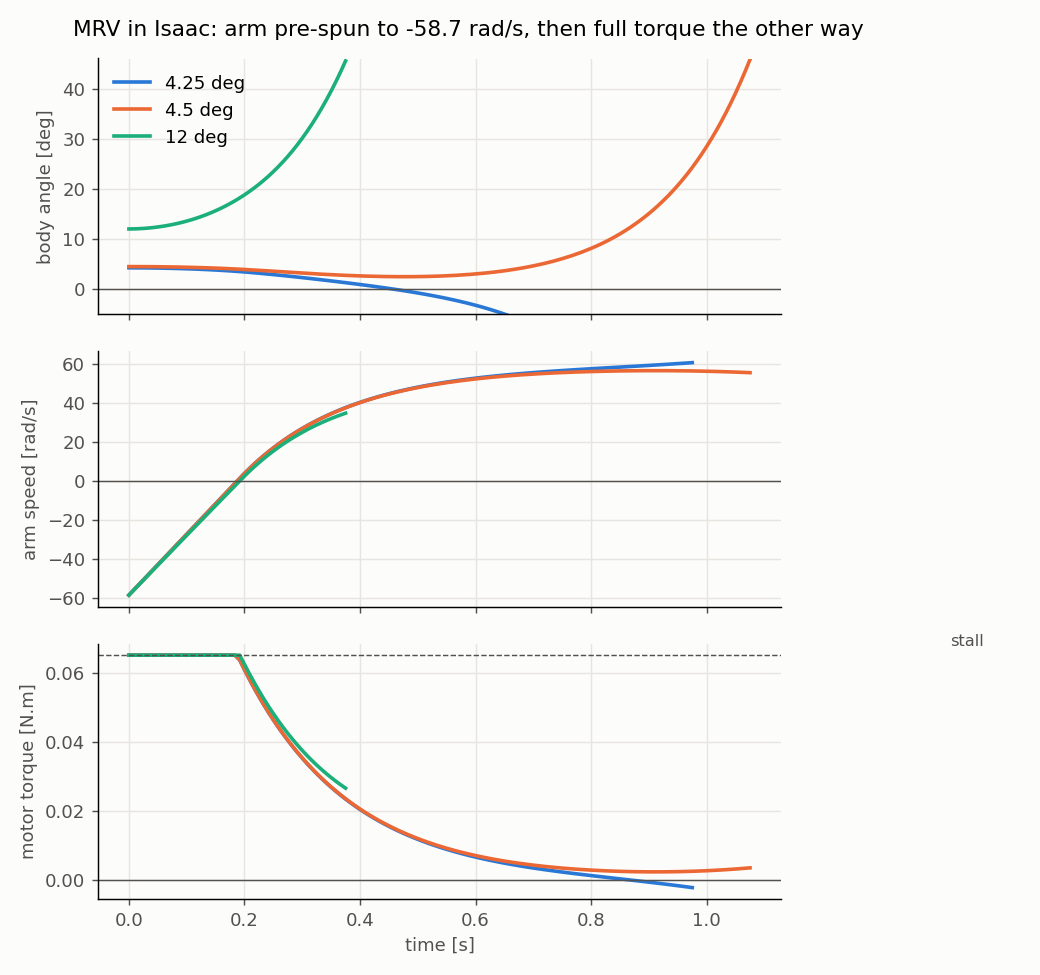
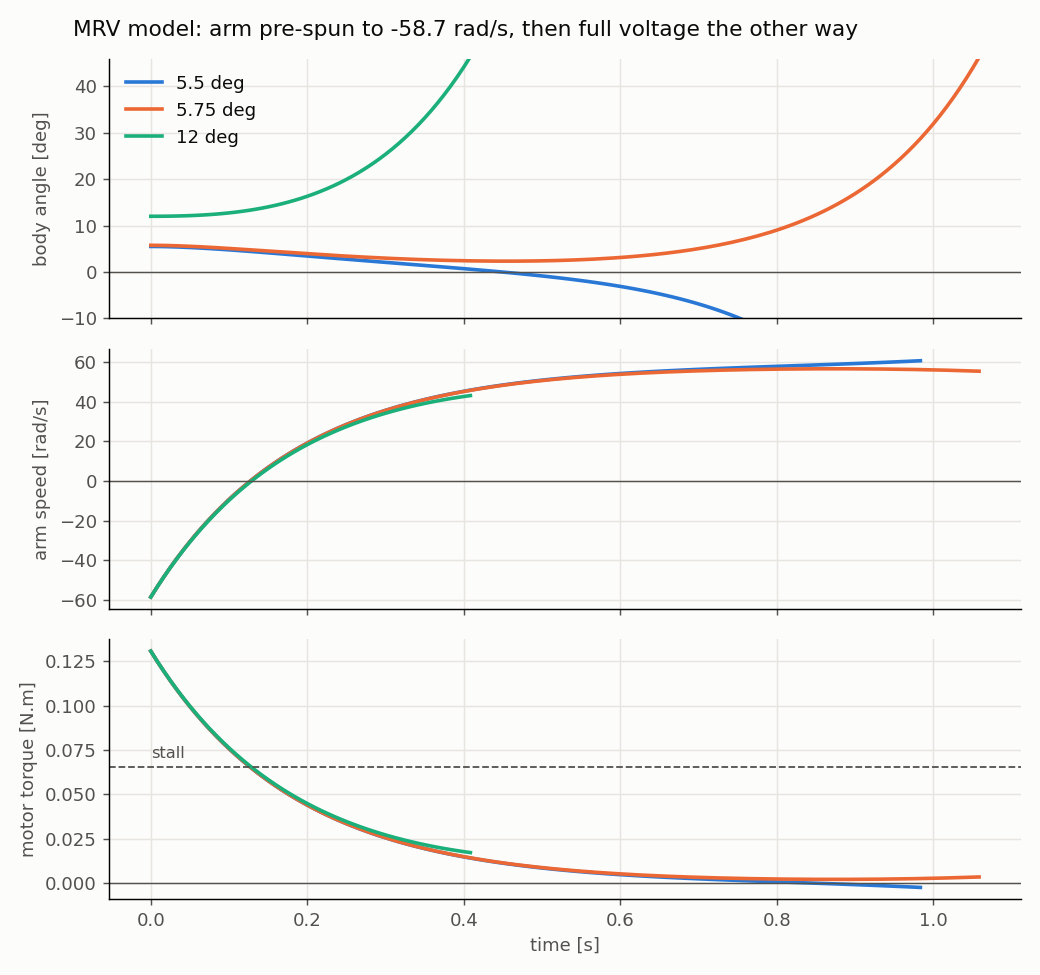
restate README results from the fixed harness, add the MRV bench discrepancy, fix the plugging cap in the MRV limit

diff --git a/analysis/plot_mrv_bench.py b/analysis/plot_mrv_bench.py
@@ -1,0 +1,66 @@
+"""Plot pre-spun recoveries from rl/mrv_bench.py: body angle, arm speed and motor torque.
+
+Each trace stops at its first pass beyond 45 deg (the env auto-resets after that, so the rest of
+the trace is a different start).
+
+    python3 analysis/plot_mrv_bench.py results/mrv_bench.csv --angles 5.5 5.75 12 \
+        --out results/figures/mrv_bench_prespun.png
+"""
+
+import argparse
+import csv
+import os
+from collections import defaultdict
+
+import matplotlib
+matplotlib.use('Agg')
+import matplotlib.pyplot as plt
+
+COLOURS = ['#2a78d6', '#eb6834', '#1baf7a', '#eda100']
+INK, MUTED, SURFACE, GRID = '#0b0b0b', '#52514e', '#fcfcfb', '#e6e5e0'
+
+p = argparse.ArgumentParser()
+p.add_argument('csv')
+p.add_argument('--angles', type=float, nargs='+', required=True)
+p.add_argument('--stall', type=float, default=0.0653)
+p.add_argument('--out', required=True)
+args = p.parse_args()
+
+traces = defaultdict(lambda: defaultdict(list))
+with open(args.csv) as f:
+    for r in csv.DictReader(f):
+        if float(r['arm0']) >= 0:  # pre-spun starts only
+            continue
+        tr = traces[float(r['theta0'])]
+        if tr['done']:
+            continue
+        for k in ('t', 'theta_deg', 'w_arm', 'effort'):
+            tr[k].append(float(r[k]))
+        if abs(float(r['theta_deg'])) > 45.0:
+            tr['done'].append(True)
+
+fig, axes = plt.subplots(3, 1, figsize=(8, 7.5), sharex=True, facecolor=SURFACE)
+for colour, angle in zip(COLOURS, args.angles):
+    theta0 = min(traces, key=lambda a: abs(a - angle))  # label the start actually plotted
+    tr = traces[theta0]
+    for ax, key in zip(axes, ('theta_deg', 'w_arm', 'effort')):
+        ax.plot(tr['t'], tr[key], color=colour, lw=2, label=f'{theta0:g} deg')
+for ax, ylabel in zip(axes, ('body angle [deg]', 'arm speed [rad/s]', 'motor torque [N.m]')):
+    ax.set_facecolor(SURFACE)
+    ax.set_ylabel(ylabel, color=MUTED)
+    ax.grid(color=GRID, lw=0.8)
+    ax.axhline(0, color=MUTED, lw=0.8)
+    ax.tick_params(colors=MUTED)
+    for side in ('top', 'right'):
+        ax.spines[side].set_visible(False)
+axes[0].set_ylim(-10, 46)
+axes[2].axhline(args.stall, color=MUTED, lw=1, ls='--')
+axes[2].text(0.0, args.stall * 1.05, 'stall', color=MUTED, fontsize=9, va='bottom')
+axes[0].legend(frameon=False, labelcolor=INK)
+axes[-1].set_xlabel('time [s]', color=MUTED)
+fig.suptitle('MRV model: arm pre-spun to -58.7 rad/s, then full voltage the other way',
+             color=INK, x=0.07, ha='left')
+fig.tight_layout()
+os.makedirs(os.path.dirname(args.out), exist_ok=True)
+fig.savefig(args.out, dpi=130)
+print(f'wrote {args.out}')

diff --git a/rl/mrv_bench.py b/rl/mrv_bench.py
@@ -78,9 +78,11 @@ for k in range(int(args.seconds * 120)):
     if args.rate:  # pace the loop so the viewer shows it at the requested speed
         time.sleep(max(0.0, t_start + k / 120 / args.rate - time.time()))
     w = obs[:, 2]
-    # command full positive torque (the direction that rights a positive lean); the motor delivers
-    # what its line allows at the current arm speed
-    torque = torch.clamp(torch.full_like(w, args.stall), -args.stall - slope * w, args.stall - slope * w)
+    # full positive voltage (the direction that rights a positive lean); the motor delivers what its
+    # line allows at the current arm speed: up to 2x stall while braking a pre-spun arm (plugging),
+    # stall at rest, falling to 0 at no-load. (Until 2026-10-11 this commanded 1x stall, which
+    # capped plugging at 1x.)
+    torque = torch.clamp(torch.full_like(w, 2 * args.stall), -args.stall - slope * w, args.stall - slope * w)
     for i, ((a, w0), o, u) in enumerate(zip(starts, obs.tolist(), torque.tolist())):
         rows.append((a, w0, k / 120, math.degrees(o[0]), o[1], o[2], u))
     obs, _, _, _, _ = env.step(torque.unsqueeze(1))

diff --git a/tests/test_recovery_limit.py b/tests/test_recovery_limit.py
@@ -1,0 +1,28 @@
+import re
+import subprocess
+import sys
+from pathlib import Path
+
+import pytest
+
+pytest.importorskip("scipy")
+
+REPO = Path(__file__).resolve().parents[1]
+
+
+def limit(*args):
+    out = subprocess.run([sys.executable, "analysis/recovery_limit.py", *args], cwd=REPO,
+                         capture_output=True, text=True, check=True).stdout
+    return float(re.search(r"max recoverable lean: ([\d.]+) deg", out).group(1))
+
+
+def test_benchmark_limit():
+    assert limit("--despin") == pytest.approx(7.47, abs=0.01)
+
+
+def test_mrv_plugging_is_allowed():
+    # pre-spun against the motor line, braking may use up to 2x stall; a 1x box gave 4.41
+    mrv = ("--urdf", "urdf/mrv.urdf", "--max_torque", "0.0653", "--no_load_speed", "58.7",
+           "--max_arm_speed", "1000")
+    assert limit(*mrv) == pytest.approx(2.82, abs=0.01)
+    assert limit(*mrv, "--arm0", "-58.7") == pytest.approx(5.65, abs=0.01)

diff --git a/analysis/recovery_limit.py b/analysis/recovery_limit.py
@@ -66,7 +66,10 @@ A_eq = rows[N, end, :]
 b_eq = -x_free[N, end]
 c = np.zeros(N + 1)
 c[N] = -1.0  # maximise theta0
-bounds = [(-args.max_torque, args.max_torque)] * N + [(0, None)]
+# With the motor line, the line itself bounds the torque (up to 2x stall when braking against the
+# spin); a box at 1x stall here would silently remove plugging (it did until 2026-10-11).
+box = 2 * args.max_torque if args.no_load_speed else args.max_torque
+bounds = [(-box, box)] * N + [(0, None)]
 res = linprog(c, A_ub=A_ub, b_ub=b_ub, A_eq=A_eq, b_eq=b_eq, bounds=bounds, method='highs')
 if not res.success:
     raise SystemExit(res.message)

diff --git a/rl/pendulum_env.py b/rl/pendulum_env.py
@@ -84,7 +84,7 @@ class PendulumEnvCfg(DirectRLEnvCfg):
     )
 
     # reset
-    initial_theta_range = [-8.0 * DEG, 8.0 * DEG]  # [rad]; just past the 7.48 deg limit (was 12 until 10-09)
+    initial_theta_range = [-8.0 * DEG, 8.0 * DEG]  # [rad]; just past the 7.47 deg limit (was 12 until 10-09)
     initial_vel_range = [-0.1, 0.1]  # [rad/s], both joints; training only, the harness evaluates from rest
     max_theta = 15.0 * DEG  # training fall threshold [rad]; evaluation uses 45 deg
 

diff --git a/README.md b/README.md
@@ -13,9 +13,9 @@ robot can lean and still recover, and what limits it.
 
 **Main results:**
 
-- **The design is speed-limited, not torque-limited.** Cutting the motor torque to a quarter
-  costs only 1 degree of recoverable lean. What sets the limit is how fast the reaction arm can
-  spin.
+- **The design is speed-limited, not torque-limited.** Removing the torque limit entirely only
+  raises LQR's recoverable lean from 7.45 to 8.91 deg, and no controller could exceed 9.15 deg
+  even with unlimited torque: the reaction arm's speed limit sets the boundary.
 - **A learned controller cannot beat LQR here.** PPO trained in Isaac Lab and deployed as a
   drop-in ROS 2 node recovers the same 7.45 deg lean as LQR, and a linear program over every
   possible torque sequence shows no controller can recover more than 7.47 deg. PPO is weaker at
@@ -90,24 +90,34 @@ Closed-loop poles: **-33.7** and a near-double pole at **-6.36 +/- 0.04j** rad/s
 
 ## Results
 
-Each run starts upright and applies disturbances on the same grid, from 3.0 deg upward in
-0.5 deg steps, until the first fall. The disturbance is a body disturbance (the pendulum is
-set to an angle), not a torque added to the command, which would be in the controller's own
-input space and test the easy case.
+The LQR boundaries in the table are bisected to 0.05 deg by the harness after its stale-command
+fix (see [Bisected boundary](#bisected-boundary)), and every repeat agreed. The PD result, the
+arm-speed table and the saturation figures below come from earlier hand sweeps: disturbances on
+a 0.5 deg grid from 3.0 deg upward until the first fall, one run per setting, set by hand before
+that fix. The disturbance is a body disturbance (the pendulum is set to an angle), not a torque
+added to the command, which would be in the controller's own input space and test the easy case.
 
-| Controller | Torque limit | Falls at | Arm saturation starts at |
-|---|---|---|---|
-| LQR | none | 8.5 deg | 5.0 deg |
-| LQR | 0.05 N.m | 8.0 deg | 5.0 deg |
-| LQR | 0.025 N.m | 7.5 deg | 5.0 deg |
-| PD (`k_w_arm = 0`) | 0.025 N.m | 4.0 deg (see below) | - |
+| Controller | Torque limit | Recovers | Fails | Physical limit, any controller |
+|---|---|---|---|---|
+| LQR | none | 8.906 deg | 8.953 deg | 9.15 deg |
+| LQR | 0.05 N.m | 8.344 deg | 8.391 deg | 8.35 deg |
+| LQR | 0.025 N.m | 7.453 deg | 7.500 deg | 7.47 deg |
+| PD (`k_w_arm = 0`) | 0.025 N.m | fell at 4.0 deg in a hand sweep (see below) | | |
 
-**Speed-limited, not torque-limited.** Peak arm speed scales with the initial lean at about
-1100 to 1200 rad/s per radian, *whatever the torque limit*. That is momentum the arm must
-absorb, fixed by the physics rather than by the gains. So with a 100 rad/s arm limit,
-saturation always starts near 5 deg. The torque limit only decides how long the arm stays
-saturated, and falls follow sustained saturation (over ~0.4 s), not brief saturation. A
-bigger motor buys almost nothing; a faster or heavier arm is what extends the range.
+"None" means the controller's clamp is set to 1000 N.m (unclamped LQR asks for at most ~2.4 N.m).
+The physical limit is the largest lean any torque sequence could recover under the same torque
+limit and the 100 rad/s arm speed limit, from `analysis/recovery_limit.py` (method in
+[docs/ppo_vs_lqr.md](docs/ppo_vs_lqr.md#the-physical-limit)). PD cannot be bisected: it never
+despins the arm, so it fails the recovery definition at any lean.
+
+**Speed-limited, not torque-limited.** Removing the torque limit entirely raises the physical
+limit only from 7.47 to 9.15 deg, while removing the arm speed limit instead would raise it to
+19.5 deg. In the hand sweeps, peak arm speed scaled with the initial lean at about 1100 to
+1200 rad/s per radian, *whatever the torque limit*. That is momentum the arm must absorb, fixed
+by the physics rather than by the gains, so with a 100 rad/s arm limit saturation starts near
+5 deg. The torque limit only decides how long the arm stays saturated, and falls follow
+sustained saturation (over ~0.4 s), not brief saturation. A faster or heavier arm is what
+extends the range; a bigger motor buys at most 1.7 deg.
 
 **Saturation is survivable, sustained saturation is not.** A saturated arm has zero
 acceleration, so it exerts zero reaction torque on the body and the body falls freely until
@@ -140,14 +150,9 @@ bisects to 0.05 deg. **Recovered** is stricter than "did not fall": the body mus
 0.5 deg of upright **and the arm below 1 rad/s** at the end, because a real pendulum gets
 pushed again and an arm left spinning has less headroom for the next push.
 
-| Controller | Torque limit | Recovers | Fails | Repeat agrees |
-|---|---|---|---|---|
-| LQR | 0.025 N.m | 7.453 deg | 7.500 deg | yes |
-| Physical limit, any controller | 0.025 N.m | 7.47 deg | | |
-
-Every recovery ended with the arm below 0.1 rad/s, so the despin requirement cost LQR nothing.
-The limit comes from `analysis/recovery_limit.py` (see [docs/ppo_vs_lqr.md](docs/ppo_vs_lqr.md)).
-Per-trial data: `results/bisect_hold_lqr_0p025.csv`.
+Results are in the table above. Every LQR recovery ended with the arm below 0.1 rad/s, so the
+despin requirement cost LQR nothing. Per-trial data: `results/bisect_hold_lqr_*.csv` (`0p025`,
+`0p05`, and `1000p0` for no limit).
 
 **The hold is a bug fix.** Before it, a trial began with the previous trial's last command
 still applied for a physics step. After a fall that was a full-torque kick, so each result
@@ -189,6 +194,48 @@ exported to ONNX and run by `pendulum_policy` through the same harness.
   controller as well.
 
 Method, all results, what failed and how to reproduce: [docs/ppo_vs_lqr.md](docs/ppo_vs_lqr.md).
+
+## MRV: an open discrepancy between the model and the robot
+
+The pendulum above is a benchmark. `urdf/mrv.urdf` models MRV itself, pinned at its foot so it
+can only tip about one axis: 358 g measured on a scale, centre of mass 210 mm above the foot,
+each reaction arm carrying two 14.1 g weights 158.5 mm apart. The 50:1 gearmotor is modelled
+by its datasheet torque-speed line scaled to the 8 V supply: 0.0653 N.m at stall, 58.7 rad/s at
+no load, and up to twice stall torque when driven against an arm already spinning the other
+way (plugging).
+
+**Bench test.** MRV's foot sat in a jig with bearings that allowed rotation about one axis
+only, with one arm driving, and the lean read with a protractor. The arm was spun to full speed
+one way, the body was held still at about 12 deg and released, and full voltage was commanded
+the other way. It recovered from **about 12 deg**.
+
+**Model.** The largest lean any controller could recover, by the same linear program as the
+benchmark: **2.8 deg** with the arm starting at rest, **5.6 deg** with it pre-spun as on the
+bench. An open-loop re-enactment in Isaac Lab with full nonlinear physics (`rl/mrv_bench.py`)
+agrees: 2.75 and 5.5 deg. At the datasheet speed, even an infinitely strong motor has a
+momentum ceiling of 12.4 deg (`I_a x 117 rad/s / sqrt(mgl x I_p)`), and getting to 12 deg would
+take about 50 times the stall torque. So no realistic torque explains the bench result at the
+datasheet speed.
+
+![MRV model, pre-spun recoveries from 5.5, 5.75 and 12 deg](results/figures/mrv_bench_prespun.png)
+
+*The bench manoeuvre in Isaac Lab on the MRV model. Plugging gives twice stall torque at first,
+but it fades as the arm passes zero and speeds up. The model recovers 5.5 deg and falls from 5.75;
+from 12 deg it is gone within half a second.*
+
+**What would have to be true.** No single parameter in a plausible range closes the gap:
+
+- **Faster motor, datasheet torque:** not enough at any speed. A 300 rad/s no-load speed (5x)
+  still only reaches 8.8 deg, because torque then binds.
+- **Heavier arm:** 3x the arm inertia reaches 8.0 deg.
+- **Faster and stronger motor together:** about **2.15x the datasheet's torque and speed at once**
+  (126 rad/s no-load, 0.14 N.m stall, as if the motor ran at ~17 V) makes 12 deg possible.
+
+**Unresolved.** The leading hypothesis is that the real motors deliver well beyond the 8 V
+datasheet figures, which come from a single sample tested at 6 V and scaled linearly. The planned
+test is to measure MRV's actual torque-speed curve at 8 V: stall torque and no-load speed. If
+the motor matches the datasheet, the remaining suspects are the bench itself (the protractor
+reading, help from the jig or cable) and the model's mass properties.
 
 ## Watch a recorded run
 
@@ -310,8 +357,9 @@ rviz/                         RViz config
 
 ## Limitations and next steps
 
-- **The bagged sweeps were set by hand** in the Isaac GUI. The harness automates the boundary
-  search, but so far only 0.025 N.m has been bisected.
+- **The bagged sweeps were set by hand** in the Isaac GUI. The harness has since bisected LQR at
+  all three torque settings; the PD figure and the saturation measurements still come from the
+  hand sweeps.
 - **The harness tests release from a held lean, not an unannounced push.** Holding the body
   while the controller reacts gives every controller a correct first command. A push on
   hardware arrives mid-loop, and the 12.5 ms delay then matters more.

diff --git a/docs/journal.md b/docs/journal.md
@@ -19,7 +19,8 @@ is; this file says how it got that way. Newest entries at the bottom.
   intended torque budget without complaint, so the clamp lives in the controller.
 - **The design is speed-limited, not torque-limited.** Peak arm speed is ~1265 x initial lean
   (rad/s per rad) whatever the motor, so arm saturation starts at ~4.5 deg for any torque
-  limit. Halving the motor twice cost only 1.4 deg of recoverable lean.
+  limit. Going from no torque limit to 0.025 N.m cost only 1.4 deg of recoverable lean (hand
+  sweeps; on the fixed harness, 10-11, it is 8.91 to 7.45 deg).
 - PD never despins the arm, so each recovery leaves momentum for the next one; it fell at
   4 deg because it started already spun up. That is the case for feeding arm speed back.
 - Logged sim timing is exact (120.000 Hz in sim time); real hardware will jitter.
@@ -323,3 +324,26 @@ What happened:
 - **Kept in this repo, not split out.** The comparison's credibility rests on this repo's harness,
   URDF and ROS nodes; a learned controller running unchanged behind the same interface is the
   interface's strongest demonstration.
+
+## 2026-10-11: README statements checked against the data
+
+- **"Cutting the motor torque to a quarter costs only 1 degree" was not something any table
+  showed** (the settings were none, 0.05 and 0.025 N.m). Replaced with what the data says.
+- **LQR at 0.05 N.m and with no torque limit, re-bisected on the fixed harness:** 8.344 / 8.391
+  and 8.906 / 8.953 deg, repeats agree. Physical limits 8.35 and 9.15 deg. At 0.05 N.m LQR is
+  again at the limit; with no limit it is 0.24 deg short. The 09-25 hand-sweep numbers (8.0 and
+  8.5 deg "falls at") are superseded. The first no-limit run was discarded: the 0.05 N.m node
+  was still running (killing `ros2 run` leaves the node alive) and two controllers raced on
+  `/joint_command`. `scripts/queue15.sh` now stops every controller between settings.
+- **MRV correction: the pre-spun limit is 5.6 deg, not 4.4.** `recovery_limit.py`'s torque box
+  stayed at 1x stall even with the motor line, so the plugging torque (up to 2x when reversing
+  against a spinning arm) that its docstring promised was never allowed; `rl/mrv_bench.py`
+  commanded exactly 1x stall, the same cap, which is why the two agreed. Both fixed. From rest is
+  unchanged at 2.8 deg. Isaac re-enactment now 2.75 and 5.5 deg. `mrv_bench_prespun.png` redrawn
+  from the corrected run (`analysis/plot_mrv_bench.py`); the four older MRV recovery figures, drawn
+  with the 1x cap and linked from nowhere, were removed.
+- **The bench's 12 deg is not explained by a faster motor alone.** With datasheet torque, no
+  no-load speed gets there (300 rad/s reaches 8.8 deg). 3x the arm inertia reaches 8.0 deg. The
+  motor would need about 2.15x the datasheet's torque and speed together. At the datasheet speed,
+  12 deg needs ~50x stall torque (ceiling 12.4 deg). Planned test: measure the motor's real
+  torque-speed curve at 8 V.

diff --git a/docs/ppo_vs_lqr.md b/docs/ppo_vs_lqr.md
@@ -58,7 +58,8 @@ no training and no seeds.
 
 - **7.47 deg**, whether or not the arm must also end despun (despin costs nothing).
 - Remove the arm speed limit: 19.5 deg (the torque-only bound, also by hand). Double the torque:
-  only 8.35 deg. The speed limit is what binds, as measured on LQR in September.
+  only 8.35 deg; remove the torque limit entirely: 9.15 deg. The speed limit is what binds. LQR
+  on the fixed harness reaches 8.344 deg at double torque and 8.906 deg with no torque limit.
 - Not in the bound: sin(theta) vs theta (~0.3% at 8 deg) and how PhysX handles the speed limit.
 
 ## Results
@@ -114,7 +115,7 @@ Each change was one variable, with a prediction written first.
 | Potential-based shaping on arm speed (Ng et al. 1999), k = 0.001 to 0.25 | no despin; larger k weakens the catch; k = 0.25 never balances |
 | The same shaping, gated to near upright | never balances: rewarded leaving upright with a spinning arm (a design error) |
 | Multiplicative reward, DeepMind Control Suite style | 1 of 10 despun, catch worse |
-| 2000 and 5000 iterations | catch converges; despin 1 of 10 |
+| 2000 iterations (10 seeds), 5000 (seed 10 only) | catch converges; despin 1 of 10 at 2000; seed 10 stays despun at 5000 |
 
 The common thread: every catch must spin the arm up, so any reward on arm speed either bills
 the catch or, gated, pays for abandoning upright.
